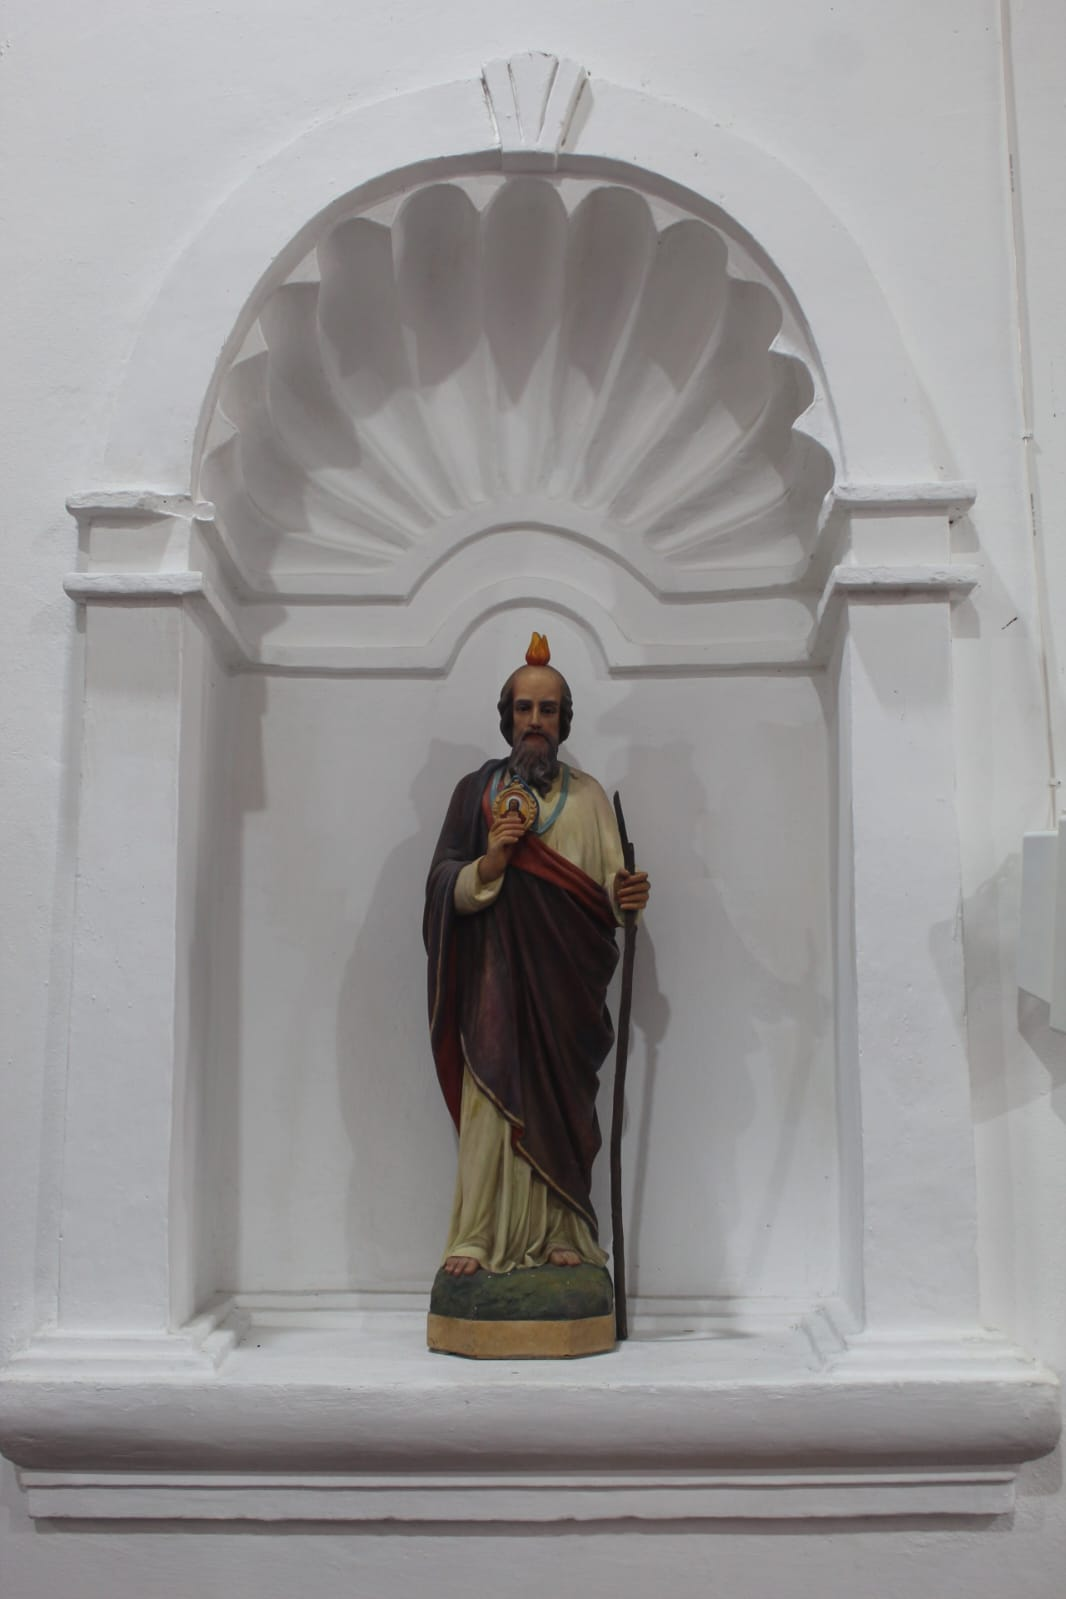
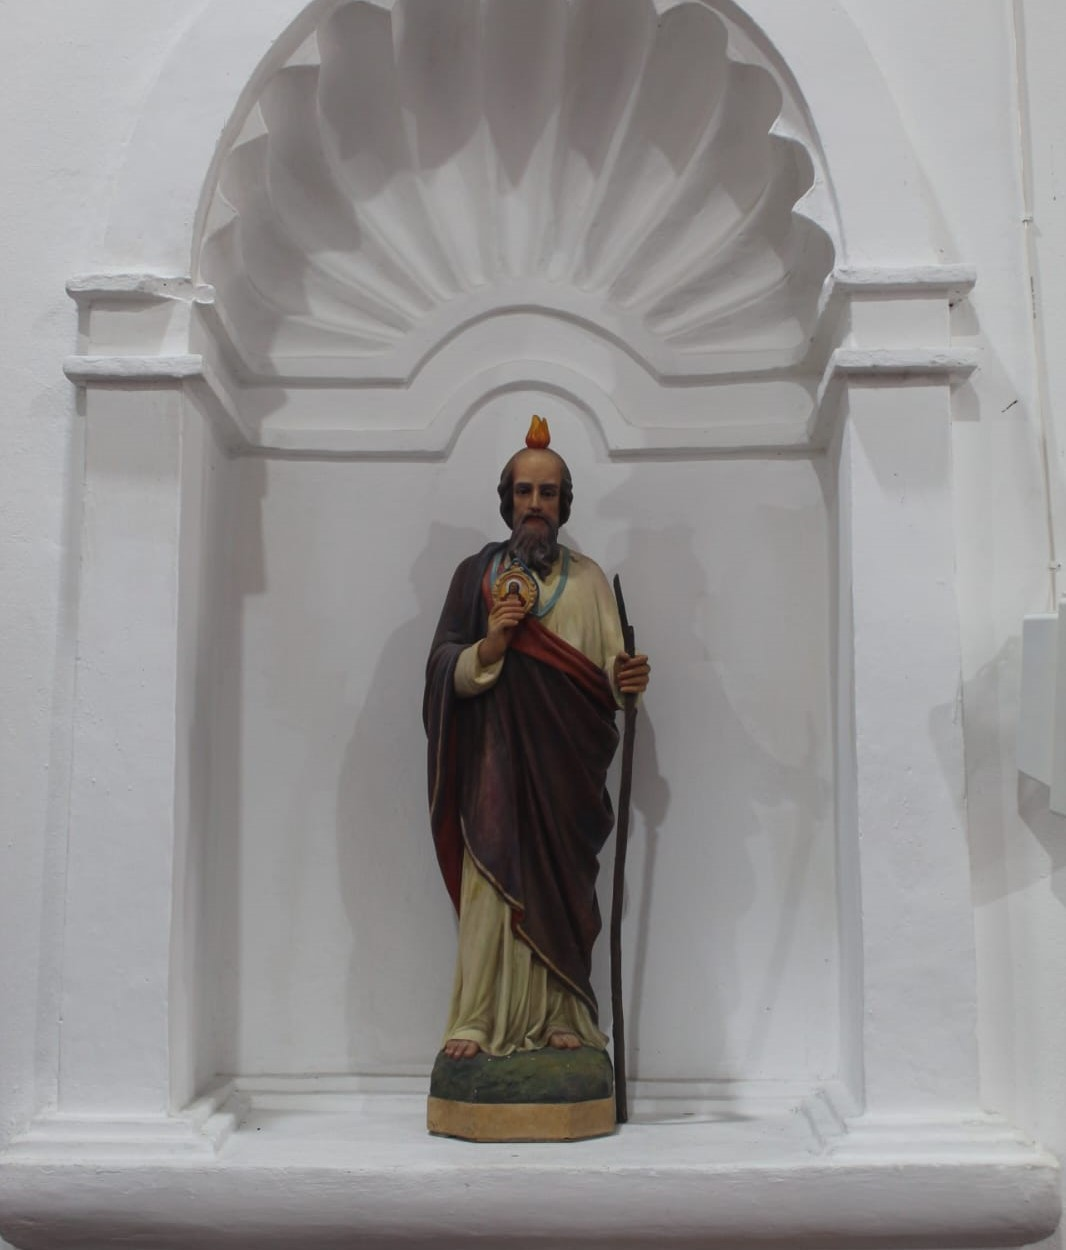
Cambio de imágenes y cambios menores

diff --git a/src/pages/Donations.jsx b/src/pages/Donations.jsx
@@ -99,7 +99,7 @@ export default function Donations() {
                   Cada donación que recibimos es una bendición que nos permite continuar con nuestra misión de servir a Dios y a nuestra comunidad. Sus aportes nos ayudan a mantener nuestro templo, realizar actividades pastorales, y apoyar a quienes más lo necesitan.
                 </p>
                 <p className="font-lora-m text-lg text-gray-700 leading-relaxed">
-                  <strong className={`font-lora-b ${liturgicalColor}`}>Importante:</strong> Todos los donativos son dirigidos directamente a nuestra parroquia y son utilizados con responsabilidad y transparencia para el beneficio de toda la comunidad de fe.
+                  <strong className={`font-lora-b ${liturgicalColor}`}>Importante:</strong> Todos los donativos son dirigidos directamente a nuestra parroquia a pesar de ser la cuenta de la <strong>Parroquia Santa Lucía </strong> y son utilizados con responsabilidad y transparencia para el beneficio de toda la comunidad de fe.
                 </p>
               </div>
             </div>
@@ -108,11 +108,11 @@ export default function Donations() {
           
           {/* Columna derecha: Imagen - Desktop */}
           <div className="opacity-0 animate-fade-in-right delay-300 duration-800 lg:flex hidden">
-            <div className="relative group overflow-hidden rounded-xl shadow-[0_8px_40px_rgba(0,0,0,0.12)] border border-gray-200/80 w-full h-full min-h-[600px]">
+            <div className="relative group overflow-hidden rounded-xl shadow-[0_8px_40px_rgba(0,0,0,0.12)] border border-gray-200/80 w-full h-95 min-h-[600px]">
               <img 
                 src={VirgenConJesus} 
                 alt="Virgen con Jesús" 
-                className="w-full h-full object-cover object-[center_30%] transition-transform duration-700 group-hover:scale-105"
+                className="w-full h-full object-cover object-[center_5%] transition-transform duration-700 group-hover:scale-102"
               />
               {/* Overlay sutil */}
               <div className="absolute inset-0 bg-gradient-to-t from-black/10 to-transparent opacity-0 group-hover:opacity-100 transition-opacity duration-500"></div>
@@ -244,27 +244,10 @@ export default function Donations() {
                 Será redirigido a nuestra plataforma segura de pagos <strong className="font-lora-b">WOMPI</strong> para completar su donación de manera rápida y segura.
               </p>
               <p className="font-lora-m text-base text-gray-600 italic">
-                Todos los donativos son destinados directamente a nuestra parroquia
+                Todos los donativos son destinados directamente a nuestra parroquia a pesar de ser de aparecer que es para la <strong>Parroquia Santa Lucía</strong>.
               </p>
             </div>
             
-            {/* Métodos de pago */}
-            <div className="mb-10 p-6 bg-white rounded-xl border border-gray-200">
-              <p className="font-cinzel-m text-center text-gray-700 mb-4">
-                Métodos de pago aceptados:
-              </p>
-              <div className="flex flex-wrap justify-center gap-4 items-center">
-                <div className="px-4 py-2 bg-gray-50 rounded-lg border border-gray-200">
-                  <span className="font-lora-m text-sm text-gray-700">Tarjetas de crédito</span>
-                </div>
-                <div className="px-4 py-2 bg-gray-50 rounded-lg border border-gray-200">
-                  <span className="font-lora-m text-sm text-gray-700">Tarjetas de débito</span>
-                </div>
-                <div className="px-4 py-2 bg-gray-50 rounded-lg border border-gray-200">
-                  <span className="font-lora-m text-sm text-gray-700">Transferencias</span>
-                </div>
-              </div>
-            </div>
             
             {/* Botón principal de donación */}
             <div className="text-center">
@@ -287,7 +270,7 @@ export default function Donations() {
                 <svg className="w-4 h-4 inline mr-1" fill="none" stroke="currentColor" viewBox="0 0 24 24">
                   <path strokeLinecap="round" strokeLinejoin="round" strokeWidth={2} d="M12 15v2m-6 4h12a2 2 0 002-2v-6a2 2 0 00-2-2H6a2 2 0 00-2 2v6a2 2 0 002 2zm10-10V7a4 4 0 00-8 0v4h8z" />
                 </svg>
-                Transacción 100% segura y encriptada
+                Transacción 100% segura
               </p>
             </div>
             
@@ -319,7 +302,7 @@ export default function Donations() {
                 <h3 className={`font-cinzel-b text-2xl sm:text-3xl mb-6 ${liturgicalColor} drop-shadow-sm`}>
                   Gracias por su Generosidad
                 </h3>
-                <div className="w-20 h-[2px] bg-gradient-to-r from-gray-400 to-gray-200 mb-6 shadow-sm"></div>
+                <div className="w-full h-[2px] bg-gradient-to-r from-gray-400 to-gray-300 mb-6 shadow-sm"></div>
                 <p className="font-lora-m text-lg text-gray-700 leading-relaxed mb-6">
                   Cada donación, sin importar su monto, es una bendición para nuestra comunidad. Su apoyo nos permite continuar nuestra misión de servir a Dios y a nuestros hermanos.
                 </p>

diff --git a/src/pages/Contact.jsx b/src/pages/Contact.jsx
@@ -5,7 +5,7 @@ import Sidebar from '@/components/layout/Sidebar';
 import Navbar from '@/components/layout/Navbar';
 import ParoquiaCielo from '@/assets/images/gallery/ParroquiaCielo.jpg';
 import ParoquiaCieloFull from '@/assets/images/gallery/ParroquiaDPlantas.jpg';
-import CristoNegro from '@/assets/images/gallery/CristoNegroI.jpg';
+import CristoNegroF from '@/assets/images/gallery/CristoNegroF.jpg';
 import CampanaManianaF from '@/assets/images/gallery/CampanaManianaF.jpg';
 import VirgenConJesus from '@/assets/images/gallery/VirgenConJesus.jpg';
 import useLiturgicalColor from '@/hooks/useLiturgicalColor';
@@ -22,7 +22,7 @@ const InfoCard = ({ icon, title, content, delay = '0', liturgicalColor }) => {
           <h3 className={`font-cinzel-m text-xl mb-3 ${liturgicalColor} drop-shadow-sm transition-all duration-500 ease-out group-hover:text-lg`}>
             {title}
           </h3>
-          <div className="w-16 h-[2px] bg-gradient-to-r from-gray-400 to-gray-200 mb-4 shadow-sm transition-all duration-500 ease-out group-hover:w-24"></div>
+          <div className="w-full h-[2px] bg-gradient-to-r from-gray-400 to-gray-300 mb-4 shadow-sm transition-all duration-500 ease-out "></div>
           <div className="font-lora-m text-base text-gray-700 leading-relaxed transition-all duration-500 ease-out group-hover:scale-[1.01] origin-top-left">
             {content}
           </div>
@@ -132,9 +132,9 @@ export default function Contact() {
              <div className="opacity-0 animate-fade-in-up delay-300 duration-800 flex items-center justify-center">
               <div className="relative group overflow-hidden rounded-xl shadow-[0_4px_20px_rgba(0,0,0,0.08)] border border-gray-200/80 w-full max-w-md">
                 <img 
-                  src={CristoNegro} 
+                  src={CristoNegroF} 
                   alt="Cristo Negro" 
-                  className="w-full h-[350px] md:h-[400px] object-cover transition-transform duration-700 group-hover:scale-105"
+                  className="w-full h-[350px] md:h-[400px] object-fit transition-transform duration-700 group-hover:scale-102"
                 />
               </div>
             </div>
@@ -218,7 +218,7 @@ export default function Contact() {
                   <path strokeLinecap="round" strokeLinejoin="round" strokeWidth={2} d="M12 8v4l3 3m6-3a9 9 0 11-18 0 9 9 0 0118 0z" />
                 </svg>
               }
-              title="Horario de Atención"
+              title="Horario de Atención de la Oficina Parroquial"
               content={
                 <div className="space-y-1">
                   <ScheduleItem day="Lunes - Viernes" hours="8:00 AM - 12:00 PM" liturgicalColor={liturgicalColor} />
@@ -264,15 +264,6 @@ export default function Contact() {
           </div>
         </div>
       </section>
-      
-      {/* Separador decorativo */}
-      <div className="py-12 bg-gradient-to-b from-white to-gray-50">
-        <div className="flex items-center justify-center">
-          <div className="h-[2px] w-32 bg-gradient-to-r from-transparent via-gray-300 to-transparent shadow-sm"></div>
-          <div className="mx-6 w-3 h-3 rounded-full bg-gray-400 shadow-md"></div>
-          <div className="h-[2px] w-32 bg-gradient-to-r from-transparent via-gray-300 to-transparent shadow-sm"></div>
-        </div>
-      </div>
       
       {/* Sección de Mapa */}
       <section className="relative bg-gradient-to-b from-gray-50 to-white py-16 px-4">

diff --git a/src/pages/Sacraments.jsx b/src/pages/Sacraments.jsx
@@ -3,13 +3,14 @@ import Sidebar from '@/components/layout/Sidebar';
 import Navbar from '@/components/layout/Navbar';
 import JardinI from '@/assets/images/gallery/JardinCampana.jpg';
 import ParoquiaCielo from '@/assets/images/gallery/ParroquiaCielo.jpg';
-import VirgenConJesus from '@/assets/images/gallery/VirgenConJesus.jpg';
+import CampanaTardeIZoom from '@/assets/images/gallery/CampanaTardeIZoom.jpg';
+import CruzAFuera from '@/assets/images/gallery/CruzAFuera.jpg';
 import CristoNegro from '@/assets/images/gallery/CristoNegroI.jpg';
 import Jesus from '@/assets/images/gallery/JesusCrucificadoGrande.jpg';
 import useLiturgicalColor from '@/hooks/useLiturgicalColor';
 
 // Componente de Card de Sacramento
-const SacramentCard = ({ title, description, requirements, image, delay = '0', liturgicalColor }) => {
+const SacramentCard = ({ title, description, requirements, image, objectClass, delay = '0', liturgicalColor }) => {
   return (
     <div className={`group bg-gradient-to-br from-white to-gray-50/50 rounded-xl shadow-[0_4px_20px_rgba(0,0,0,0.08)] border border-gray-200/80 overflow-hidden transition-all duration-700 ease-out hover:-translate-y-3 hover:shadow-[0_8px_30px_rgba(0,0,0,0.12)] hover:from-gray-50/50 hover:to-white opacity-0 animate-fade-scale-up delay-${delay}`}>
       
@@ -18,7 +19,7 @@ const SacramentCard = ({ title, description, requirements, image, delay = '0', l
         <img 
           src={image} 
           alt={title}
-          className="w-full h-full object-cover transition-transform duration-700 group-hover:scale-110"
+          className={`w-full h-full object-cover ${objectClass} transition-transform duration-700 group-hover:scale-110`}
         />
         <div className="absolute inset-0 bg-gradient-to-t  to-transparent"></div>
         
@@ -77,7 +78,8 @@ export default function Sacraments() {
         "Plática prebautismal para padres y padrinos",
         "Coordinar fecha con la oficina parroquial"
       ],
-      image: VirgenConJesus
+      image: CruzAFuera,
+      objectClass: "object-[center_21%]"
     },
     {
       title: "Confirmación",
@@ -89,7 +91,8 @@ export default function Sacraments() {
         "Elegir un padrino o madrina confirmado",
         "Carta de motivación personal"
       ],
-      image: CristoNegro
+      image: CristoNegro,
+      objectClass: "object-[center_17%]"
     },
     {
       title: "Primera Comunión",
@@ -125,7 +128,7 @@ export default function Sacraments() {
         "Solicitar fecha con mínimo 6 meses de anticipación",
         "Entrevista con el párroco"
       ],
-      image: CristoNegro
+      image: CampanaTardeIZoom
     }
   ];
   
@@ -231,6 +234,7 @@ export default function Sacraments() {
                 description={sacrament.description}
                 requirements={sacrament.requirements}
                 image={sacrament.image}
+                objectClass={sacrament.objectClass}
                 delay={((index % 3) * 100 + 200).toString()}
                 liturgicalColor={liturgicalColor}
               />

diff --git a/src/pages/History.jsx b/src/pages/History.jsx
@@ -1,7 +1,7 @@
 import React, { useState } from 'react';
 import Sidebar from '@/components/layout/Sidebar';
 import Navbar from '@/components/layout/Navbar';
-import ParoquiaCielo from '@/assets/images/gallery/ParroquiaCielo.jpg';
+import CampanaManiana from '@/assets/images/gallery/CampanaManiana.jpg';
 import useLiturgicalColor from '@/hooks/useLiturgicalColor';
 
 export default function History() {
@@ -41,7 +41,7 @@ export default function History() {
                   Nuestra Historia
                 </h1>
                 
-                <div className="w-full h-[2px] bg-gradient-to-r from-gray-400 to-gray-200 mb-8 shadow-sm"></div>
+                <div className="w-full h-[2px] bg-gradient-to-r from-gray-400 to-gray-300 mb-8 shadow-sm"></div>
                 
                 <div className="font-lora-m text-base sm:text-lg text-gray-700 leading-relaxed space-y-6 flex-1 overflow-y-auto">
                   
@@ -86,9 +86,9 @@ export default function History() {
             <div className="flex items-stretch">
               <div className="relative overflow-hidden rounded-xl shadow-[0_8px_40px_rgba(0,0,0,0.12)] border border-gray-200/80 w-full group">
                 <img 
-                  src={ParoquiaCielo} 
+                  src={CampanaManiana} 
                   alt="Parroquia El Calvario" 
-                  className="w-full h-full object-cover object-[center_40%] transition-transform duration-700 group-hover:scale-105"
+                  className="w-full h-full object-cover object-[center_40%] transition-transform duration-700 group-hover:scale-101"
                 />
                 {/* Overlay sutil */}
                 <div className="absolute inset-0 bg-gradient-to-t from-black/20 to-transparent opacity-0 group-hover:opacity-100 transition-opacity duration-500"></div>

diff --git a/src/pages/Prayers.jsx b/src/pages/Prayers.jsx
@@ -1,7 +1,9 @@
 import React, { useState } from 'react';
 import Sidebar from '@/components/layout/Sidebar';
 import Navbar from '@/components/layout/Navbar';
-import VirgenConJesus from '@/assets/images/gallery/VirgenConJesus.jpg';
+import VirgenConJesus from '@/assets/images/gallery/Santisimo.jpg';
+import SantoI from '@/assets/images/gallery/SantoI.jpg';
+import SanJudasF from '@/assets/images/gallery/SanJudasF.jpg';
 import useLiturgicalColor from '@/hooks/useLiturgicalColor';
 
 // Componente de Card de Oración
@@ -119,7 +121,7 @@ export default function Prayers() {
             <div className="flex items-center justify-center">
               <div className="relative overflow-hidden rounded-xl shadow-[0_8px_40px_rgba(0,0,0,0.12)] border border-gray-200/80 w-full max-w-lg group">
                 <img 
-                  src={VirgenConJesus} 
+                  src={SantoI} 
                   alt="Oraciones" 
                   className="w-full h-[450px] md:h-[500px] object-cover object-[center_30%] transition-transform duration-[1200ms] ease-out group-hover:scale-[1.02]"
                 />
@@ -173,7 +175,7 @@ export default function Prayers() {
             <div className="flex items-center justify-center">
               <div className="relative overflow-hidden rounded-xl shadow-[0_8px_40px_rgba(0,0,0,0.12)] border border-gray-200/80 w-full max-w-lg group">
                 <img 
-                  src={VirgenConJesus} 
+                  src={SanJudasF} 
                   alt="Oraciones" 
                   className="w-full h-[450px] md:h-[500px] object-cover object-[center_30%] transition-transform duration-[1200ms] ease-out group-hover:scale-[1.02]"
                 />

diff --git a/src/components/home/ImageTextCard.jsx b/src/components/home/ImageTextCard.jsx
@@ -44,7 +44,7 @@ const ImageTextCard = ({
         </h3>
         
         {/* Línea decorativa de separación más larga */}
-        <div className="w-full h-[2px] bg-gradient-to-r from-gray-400 to-gray-200 mb-6 shadow-sm transition-all duration-500 ease-out group-hover:w-[99%] group-hover:md:w-95"></div>
+        <div className="w-full h-[2px] bg-gradient-to-r from-gray-400 to-gray-300 mb-6 shadow-sm transition-all duration-500 ease-out group-hover:w-[99%]"></div>
         
         {/* Texto descriptivo - aumenta en hover */}
         <p className="font-lora-m text-base md:text-lg lg:text-xl text-gray-700 leading-relaxed transition-all duration-500 ease-out group-hover:scale-[1.02] origin-left">
